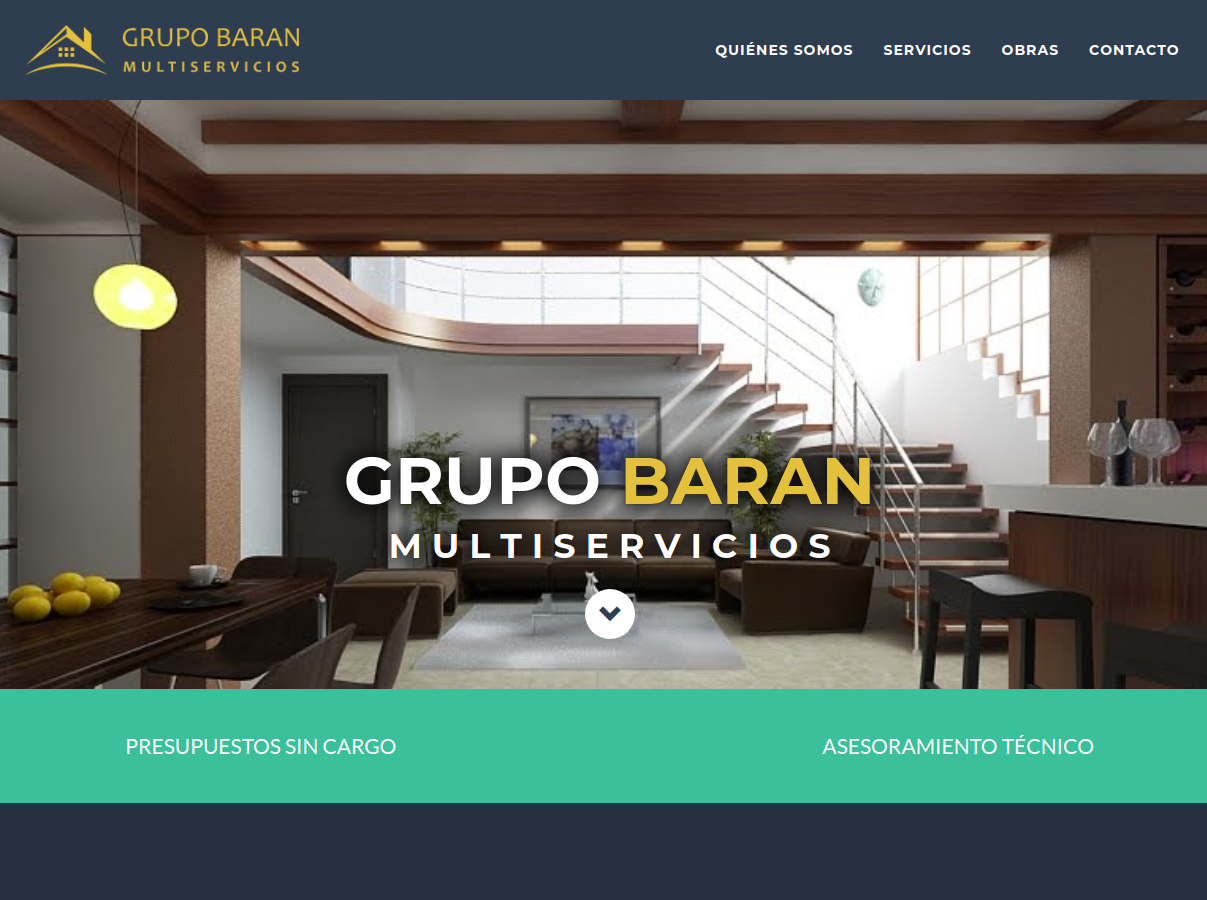
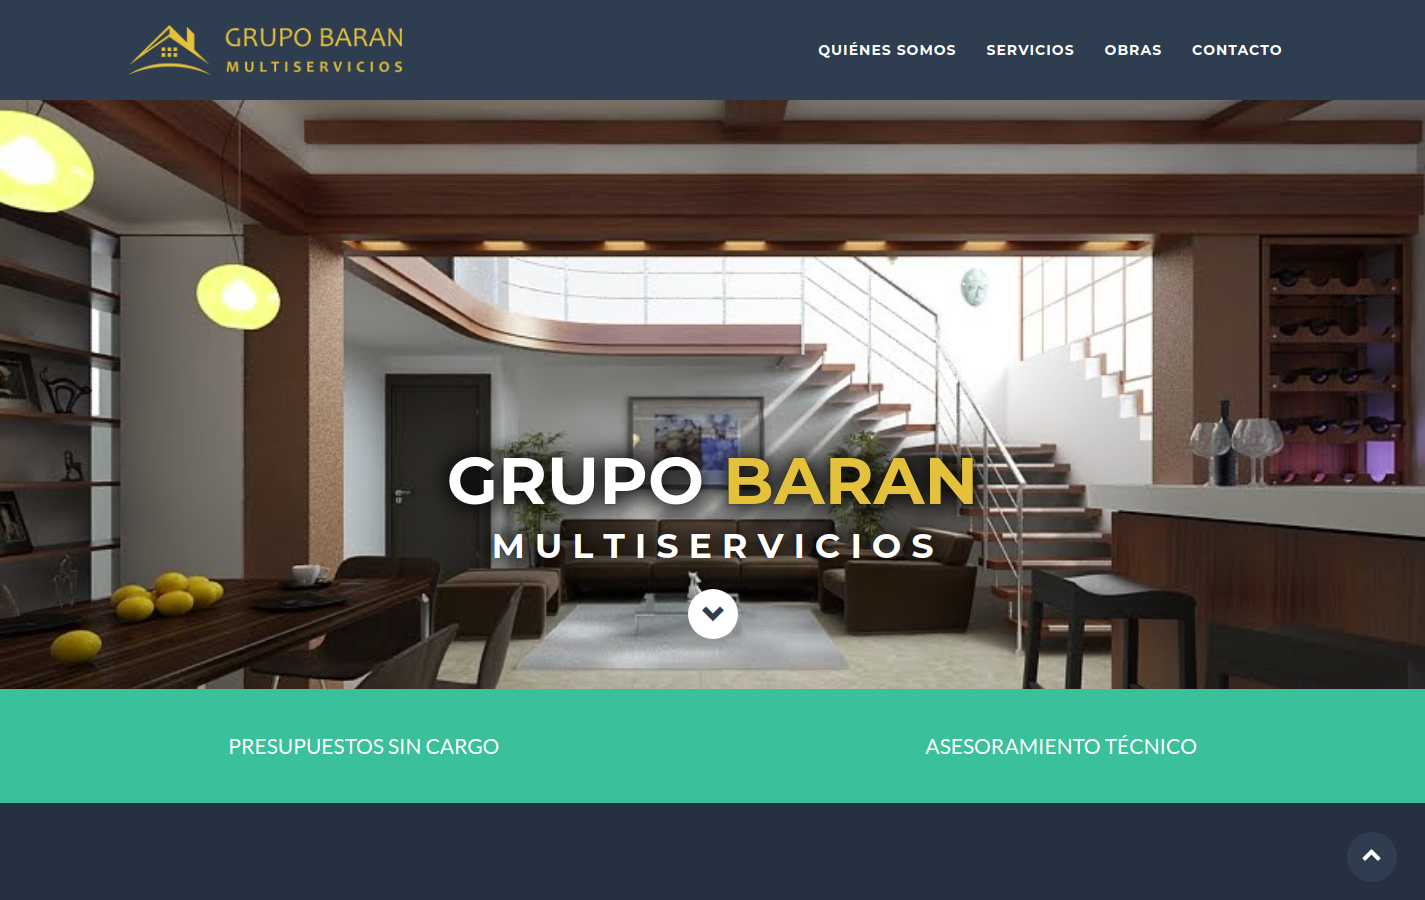
Purge img y agrego no huddle

diff --git a/css/agency.min.css b/css/agency.min.css
@@ -2,4 +2,4 @@
  * Start Bootstrap - Agency v5.2.2 (https://startbootstrap.com/template-overviews/agency)
  * Copyright 2013-2019 Start Bootstrap
  * Licensed under MIT (https://github.com/BlackrockDigital/startbootstrap-agency/blob/master/LICENSE)
- */body{overflow-x:hidden;font-family:'Roboto Slab',-apple-system,BlinkMacSystemFont,'Segoe UI',Roboto,'Helvetica Neue',Arial,sans-serif,'Apple Color Emoji','Segoe UI Emoji','Segoe UI Symbol','Noto Color Emoji'}p{line-height:1.75}a{color:#ed842a}a:hover{color:#fec503}.text-primary{color:#ed842a!important}h1,h2,h3,h4,h5,h6{font-weight:700;font-family:Montserrat,-apple-system,BlinkMacSystemFont,'Segoe UI',Roboto,'Helvetica Neue',Arial,sans-serif,'Apple Color Emoji','Segoe UI Emoji','Segoe UI Symbol','Noto Color Emoji'}.page-section{padding:100px 0}.page-section h2.section-heading{font-size:40px;margin-top:0;margin-bottom:15px}.page-section h3.section-subheading{font-size:16px;font-weight:400;font-style:italic;margin-bottom:75px;text-transform:none;font-family:'Droid Serif',-apple-system,BlinkMacSystemFont,'Segoe UI',Roboto,'Helvetica Neue',Arial,sans-serif,'Apple Color Emoji','Segoe UI Emoji','Segoe UI Symbol','Noto Color Emoji'}@media (min-width:768px){section{padding:150px 0}}::-moz-selection{background:#ed842a;text-shadow:none}::selection{background:#ed842a;text-shadow:none}img::-moz-selection{background:0 0}img::selection{background:0 0}img::-moz-selection{background:0 0}.btn{font-family:Montserrat,-apple-system,BlinkMacSystemFont,'Segoe UI',Roboto,'Helvetica Neue',Arial,sans-serif,'Apple Color Emoji','Segoe UI Emoji','Segoe UI Symbol','Noto Color Emoji';font-weight:700}.btn-xl{font-size:18px;padding:20px 40px}.btn-primary{background-color:#ed842a;border-color:#ed842a}.btn-primary:active,.btn-primary:focus,.btn-primary:hover{background-color:#cd7225!important;border-color:#cd7225!important;color:#fff}.btn-primary:active,.btn-primary:focus{box-shadow:0 0 0 .2rem #cd7225F0!important}#mainNav{background-color:#212529}#mainNav .navbar-toggler{font-size:12px;right:0;padding:13px;text-transform:uppercase;color:#fff;border:0;background-color:#ed842a;font-family:Montserrat,-apple-system,BlinkMacSystemFont,'Segoe UI',Roboto,'Helvetica Neue',Arial,sans-serif,'Apple Color Emoji','Segoe UI Emoji','Segoe UI Symbol','Noto Color Emoji'}#mainNav .navbar-brand{color:#ed842a;font-family:'Kaushan Script',-apple-system,BlinkMacSystemFont,'Segoe UI',Roboto,'Helvetica Neue',Arial,sans-serif,'Apple Color Emoji','Segoe UI Emoji','Segoe UI Symbol','Noto Color Emoji'}#mainNav .navbar-brand.active,#mainNav .navbar-brand:active,#mainNav .navbar-brand:focus,#mainNav .navbar-brand:hover{color:#cd7225}#mainNav .navbar-nav .nav-item .nav-link{font-size:90%;font-weight:400;padding:.75em 0;letter-spacing:1px;color:#fff;font-family:Montserrat,-apple-system,BlinkMacSystemFont,'Segoe UI',Roboto,'Helvetica Neue',Arial,sans-serif,'Apple Color Emoji','Segoe UI Emoji','Segoe UI Symbol','Noto Color Emoji'}#mainNav .navbar-nav .nav-item .nav-link.active,#mainNav .navbar-nav .nav-item .nav-link:hover{color:#ed842a}@media (min-width:992px){#mainNav{padding-top:25px;padding-bottom:25px;transition:padding-top .3s,padding-bottom .3s;border:none;background-color:transparent}#mainNav .navbar-brand{font-size:1.75em;transition:all .3s}#mainNav .navbar-nav .nav-item .nav-link{padding:1.1em 1em!important}#mainNav.navbar-shrink{padding-top:0;padding-bottom:0;background-color:#212529}#mainNav.navbar-shrink .navbar-brand{font-size:1.25em;padding:12px 0}}header.masthead{min-height:100vh;text-align:center;color:#fff}body,html{background-image:url(../img/header-bg2.jpg);background-repeat:no-repeat;background-attachment:fixed;background-position:center center;background-size:cover;box-shadow:#00000099 0 0 0 50vw inset}header.masthead .intro-text{padding-top:150px;padding-bottom:100px;text-shadow:4px 4px 20px rgba(0,0,0,.58)}header.masthead .intro-text .intro-lead-in{font-size:22px;font-style:italic;line-height:22px;margin-bottom:25px;font-family:'Droid Serif',-apple-system,BlinkMacSystemFont,'Segoe UI',Roboto,'Helvetica Neue',Arial,sans-serif,'Apple Color Emoji','Segoe UI Emoji','Segoe UI Symbol','Noto Color Emoji'}header.masthead .intro-text .intro-heading{font-size:50px;font-weight:700;line-height:50px;margin-bottom:25px;font-family:Montserrat,-apple-system,BlinkMacSystemFont,'Segoe UI',Roboto,'Helvetica Neue',Arial,sans-serif,'Apple Color Emoji','Segoe UI Emoji','Segoe UI Symbol','Noto Color Emoji'}@media (min-width:768px){header.masthead .intro-text{padding-top:300px;padding-bottom:200px}header.masthead .intro-text .intro-lead-in{font-size:40px;font-style:italic;line-height:40px;margin-bottom:25px;font-family:'Droid Serif',-apple-system,BlinkMacSystemFont,'Segoe UI',Roboto,'Helvetica Neue',Arial,sans-serif,'Apple Color Emoji','Segoe UI Emoji','Segoe UI Symbol','Noto Color Emoji'}header.masthead .intro-text .intro-heading{font-size:75px;font-weight:700;line-height:75px;margin-bottom:50px;font-family:Montserrat,-apple-system,BlinkMacSystemFont,'Segoe UI',Roboto,'Helvetica Neue',Arial,sans-serif,'Apple Color Emoji','Segoe UI Emoji','Segoe UI Symbol','Noto Color Emoji'}}.service-heading{margin:15px 0;text-transform:none}#portfolio .portfolio-item{right:0;margin:0 0 15px}#portfolio .portfolio-item .portfolio-link{position:relative;display:block;max-width:400px;margin:0 auto;cursor:pointer}#portfolio .portfolio-item .portfolio-link .portfolio-hover{position:absolute;width:100%;height:100%;transition:all ease .5s;opacity:0;background:#cd7225CC}#portfolio .portfolio-item .portfolio-link .portfolio-hover:hover{opacity:1}#portfolio .portfolio-item .portfolio-link .portfolio-hover .portfolio-hover-content{font-size:20px;position:absolute;top:50%;width:100%;height:20px;margin-top:-12px;text-align:center;color:#fff}#portfolio .portfolio-item .portfolio-link .portfolio-hover .portfolio-hover-content i{margin-top:-12px}#portfolio .portfolio-item .portfolio-link .portfolio-hover .portfolio-hover-content h3,#portfolio .portfolio-item .portfolio-link .portfolio-hover .portfolio-hover-content h4{margin:0}#portfolio .portfolio-item .portfolio-caption{max-width:400px;margin:0 auto;padding:25px;text-align:center;background-color:#fff}#portfolio .portfolio-item .portfolio-caption h4{margin:0;text-transform:none}#portfolio .portfolio-item .portfolio-caption p{font-size:16px;font-style:italic;margin:0;font-family:'Droid Serif',-apple-system,BlinkMacSystemFont,'Segoe UI',Roboto,'Helvetica Neue',Arial,sans-serif,'Apple Color Emoji','Segoe UI Emoji','Segoe UI Symbol','Noto Color Emoji'}#portfolio *{z-index:2}@media (min-width:767px){#portfolio .portfolio-item{margin:0 0 30px}}.portfolio-modal .modal-dialog{margin:1rem;max-width:100vw}.portfolio-modal .modal-content{padding:100px 0;text-align:center}.portfolio-modal .modal-content h2{font-size:3em;margin-bottom:15px}.portfolio-modal .modal-content p{margin-bottom:30px}.portfolio-modal .modal-content p.item-intro{font-size:16px;font-style:italic;margin:20px 0 30px;font-family:'Droid Serif',-apple-system,BlinkMacSystemFont,'Segoe UI',Roboto,'Helvetica Neue',Arial,sans-serif,'Apple Color Emoji','Segoe UI Emoji','Segoe UI Symbol','Noto Color Emoji'}.portfolio-modal .modal-content ul.list-inline{margin-top:0;margin-bottom:30px}.portfolio-modal .modal-content img{margin-bottom:30px}.portfolio-modal .modal-content button{cursor:pointer}.portfolio-modal .close-modal{position:absolute;top:25px;right:25px;width:75px;height:75px;cursor:pointer;background-color:transparent}.portfolio-modal .close-modal:hover{opacity:.3}.portfolio-modal .close-modal .lr{z-index:1051;width:1px;height:75px;margin-left:35px;transform:rotate(45deg);background-color:#212529}.portfolio-modal .close-modal .lr .rl{z-index:1052;width:1px;height:75px;transform:rotate(90deg);background-color:#212529}.timeline{position:relative;padding:0;list-style:none}.timeline:before{position:absolute;top:0;bottom:0;left:40px;width:2px;margin-left:-1.5px;content:'';background-color:#e9ecef}.timeline>li{position:relative;min-height:50px;margin-bottom:50px}.timeline>li:after,.timeline>li:before{display:table;content:' '}.timeline>li:after{clear:both}.timeline>li .timeline-panel{position:relative;float:right;width:100%;padding:0 20px 0 100px;text-align:left}.timeline>li .timeline-panel:before{right:auto;left:-15px;border-right-width:15px;border-left-width:0}.timeline>li .timeline-panel:after{right:auto;left:-14px;border-right-width:14px;border-left-width:0}.timeline>li .timeline-image{position:absolute;z-index:100;left:0;width:80px;height:80px;margin-left:0;text-align:center;color:#fff;border:7px solid #e9ecef;border-radius:100%;background-color:#ed842a}.timeline>li .timeline-image h4{font-size:10px;line-height:14px;margin-top:12px}.timeline>li.timeline-inverted>.timeline-panel{float:right;padding:0 20px 0 100px;text-align:left}.timeline>li.timeline-inverted>.timeline-panel:before{right:auto;left:-15px;border-right-width:15px;border-left-width:0}.timeline>li.timeline-inverted>.timeline-panel:after{right:auto;left:-14px;border-right-width:14px;border-left-width:0}.timeline>li:last-child{margin-bottom:0}.timeline .timeline-heading h4{margin-top:0;color:inherit}.timeline .timeline-heading h4.subheading{text-transform:none}.timeline .timeline-body>p,.timeline .timeline-body>ul{margin-bottom:0}@media (min-width:768px){.timeline:before{left:50%}.timeline>li{min-height:100px;margin-bottom:100px}.timeline>li .timeline-panel{float:left;width:41%;padding:0 20px 20px 30px;text-align:right}.timeline>li .timeline-image{left:50%;width:100px;height:100px;margin-left:-50px}.timeline>li .timeline-image h4{font-size:13px;line-height:18px;margin-top:16px}.timeline>li.timeline-inverted>.timeline-panel{float:right;padding:0 30px 20px 20px;text-align:left}}@media (min-width:992px){.timeline>li{min-height:150px}.timeline>li .timeline-panel{padding:0 20px 20px}.timeline>li .timeline-image{width:150px;height:150px;margin-left:-75px}.timeline>li .timeline-image h4{font-size:18px;line-height:26px;margin-top:30px}.timeline>li.timeline-inverted>.timeline-panel{padding:0 20px 20px}}@media (min-width:1200px){.timeline>li{min-height:170px}.timeline>li .timeline-panel{padding:0 20px 20px 100px}.timeline>li .timeline-image{width:170px;height:170px;margin-left:-85px}.timeline>li .timeline-image h4{margin-top:40px}.timeline>li.timeline-inverted>.timeline-panel{padding:0 100px 20px 20px}}.team-member{margin-bottom:50px;text-align:center}.team-member img{width:225px;height:225px;border:7px solid rgba(0,0,0,.1)}.team-member h4{margin-top:25px;margin-bottom:0;text-transform:none}.team-member p{margin-top:0}section#contact{background-color:#212529;background-image:url(../img/contacto-bg.jpg);background-repeat:no-repeat;background-position:center left;background-size:cover;box-shadow:#00000077 0 0 0 50vw inset}section#contact .section-heading{color:#fff}section#contact .form-group{margin-bottom:25px}section#contact .form-group input,section#contact .form-group textarea{padding:20px}section#contact .form-group input.form-control{height:auto}section#contact .form-group textarea.form-control{height:248px}section#contact .form-control:focus{border-color:#ed842a;box-shadow:none}section#contact ::-webkit-input-placeholder{font-weight:700;color:#ced4da;font-family:Montserrat,-apple-system,BlinkMacSystemFont,'Segoe UI',Roboto,'Helvetica Neue',Arial,sans-serif,'Apple Color Emoji','Segoe UI Emoji','Segoe UI Symbol','Noto Color Emoji'}section#contact :-moz-placeholder{font-weight:700;color:#ced4da;font-family:Montserrat,-apple-system,BlinkMacSystemFont,'Segoe UI',Roboto,'Helvetica Neue',Arial,sans-serif,'Apple Color Emoji','Segoe UI Emoji','Segoe UI Symbol','Noto Color Emoji'}section#contact ::-moz-placeholder{font-weight:700;color:#ced4da;font-family:Montserrat,-apple-system,BlinkMacSystemFont,'Segoe UI',Roboto,'Helvetica Neue',Arial,sans-serif,'Apple Color Emoji','Segoe UI Emoji','Segoe UI Symbol','Noto Color Emoji'}section#contact :-ms-input-placeholder{font-weight:700;color:#ced4da;font-family:Montserrat,-apple-system,BlinkMacSystemFont,'Segoe UI',Roboto,'Helvetica Neue',Arial,sans-serif,'Apple Color Emoji','Segoe UI Emoji','Segoe UI Symbol','Noto Color Emoji'}.footer{padding:25px 0;text-align:center}.footer span.copyright{font-size:90%;line-height:40px;text-transform:none;font-family:Montserrat,-apple-system,BlinkMacSystemFont,'Segoe UI',Roboto,'Helvetica Neue',Arial,sans-serif,'Apple Color Emoji','Segoe UI Emoji','Segoe UI Symbol','Noto Color Emoji'}.footer ul.quicklinks{font-size:90%;line-height:40px;margin-bottom:0;text-transform:none;font-family:Montserrat,-apple-system,BlinkMacSystemFont,'Segoe UI',Roboto,'Helvetica Neue',Arial,sans-serif,'Apple Color Emoji','Segoe UI Emoji','Segoe UI Symbol','Noto Color Emoji'}ul.social-buttons{margin-bottom:0}ul.social-buttons li a{font-size:20px;line-height:50px;display:block;width:50px;height:50px;transition:all .3s;color:#fff;border-radius:100%;outline:0;background-color:#212529}ul.social-buttons li a:active,ul.social-buttons li a:focus,ul.social-buttons li a:hover{background-color:#ed842a}
+ */body{overflow-x:hidden;font-family:'Roboto Slab',-apple-system,BlinkMacSystemFont,'Segoe UI',Roboto,'Helvetica Neue',Arial,sans-serif,'Apple Color Emoji','Segoe UI Emoji','Segoe UI Symbol','Noto Color Emoji'}body,html{background-image:url(../img/header-bg2.jpg);background-repeat:no-repeat;background-attachment:fixed;background-position:center center;background-size:cover;box-shadow:#00000099 0 0 0 50vw inset}p{line-height:1.75}a{color:#ed842a}a:hover{color:#fec503}.text-primary{color:#ed842a!important}h1,h2,h3,h4,h5,h6{font-weight:700;font-family:Montserrat,-apple-system,BlinkMacSystemFont,'Segoe UI',Roboto,'Helvetica Neue',Arial,sans-serif,'Apple Color Emoji','Segoe UI Emoji','Segoe UI Symbol','Noto Color Emoji'}.page-section{padding:100px 0}.page-section h2.section-heading{font-size:40px;margin-top:0;margin-bottom:15px}.page-section h3.section-subheading{font-size:1.25em;font-weight:400;font-style:italic;margin-bottom:75px;text-transform:none;font-family:'Droid Serif',-apple-system,BlinkMacSystemFont,'Segoe UI',Roboto,'Helvetica Neue',Arial,sans-serif,'Apple Color Emoji','Segoe UI Emoji','Segoe UI Symbol','Noto Color Emoji'}@media (min-width:768px){section{padding:150px 0}}::-moz-selection,::selection{background:#ed842a;text-shadow:none}img::-moz-selection,img::selection{background:0 0}.btn{font-family:Montserrat,-apple-system,BlinkMacSystemFont,'Segoe UI',Roboto,'Helvetica Neue',Arial,sans-serif,'Apple Color Emoji','Segoe UI Emoji','Segoe UI Symbol','Noto Color Emoji';font-weight:700}.btn-xl{font-size:18px;padding:20px 40px}.btn-primary{background-color:#ed842a;border-color:#ed842a}.btn-primary:active,.btn-primary:focus,.btn-primary:hover{background-color:#cd7225!important;border-color:#cd7225!important;color:#fff}.btn-primary:active,.btn-primary:focus{box-shadow:0 0 0 .2rem #cd7225F0!important}#mainNav{background-color:#212529}#mainNav .navbar-toggler{font-size:12px;right:0;padding:13px;text-transform:uppercase;color:#fff;border:0;background-color:#ed842a;font-family:Montserrat,-apple-system,BlinkMacSystemFont,'Segoe UI',Roboto,'Helvetica Neue',Arial,sans-serif,'Apple Color Emoji','Segoe UI Emoji','Segoe UI Symbol','Noto Color Emoji'}#mainNav .navbar-brand{color:#ed842a;font-family:'Lobster two',-apple-system,BlinkMacSystemFont,'Segoe UI',Roboto,'Helvetica Neue',Arial,sans-serif,'Apple Color Emoji','Segoe UI Emoji','Segoe UI Symbol','Noto Color Emoji';font-size:1.75rem}#mainNav .navbar-brand.active,#mainNav .navbar-brand:active,#mainNav .navbar-brand:focus,#mainNav .navbar-brand:hover{color:#cd7225}#mainNav .navbar-nav .nav-item .nav-link{font-size:90%;font-weight:400;padding:.75em 0;letter-spacing:1px;color:#fff;font-family:Montserrat,-apple-system,BlinkMacSystemFont,'Segoe UI',Roboto,'Helvetica Neue',Arial,sans-serif,'Apple Color Emoji','Segoe UI Emoji','Segoe UI Symbol','Noto Color Emoji'}#mainNav .navbar-nav .nav-item .nav-link.active,#mainNav .navbar-nav .nav-item .nav-link:hover{color:#ed842a}@media (min-width:992px){#mainNav{padding-top:25px;padding-bottom:25px;transition:padding-top .3s,padding-bottom .3s;border:none;background-color:transparent}#mainNav .navbar-brand{font-size:2.25em;transition:all .3s}#mainNav .navbar-nav .nav-item .nav-link{padding:1.1em 1em!important}#mainNav.navbar-shrink{padding-top:0;padding-bottom:0;background-color:#212529}#mainNav.navbar-shrink .navbar-brand{font-size:1.75em;padding:12px 0}}header.masthead{min-height:100vh;text-align:center;color:#fff}header.masthead .intro-text{padding-top:150px;padding-bottom:100px;text-shadow:4px 4px 20px rgba(0,0,0,.58)}header.masthead .intro-text .intro-lead-in{font-size:22px;font-style:italic;line-height:22px;margin-bottom:25px;font-family:'Droid Serif',-apple-system,BlinkMacSystemFont,'Segoe UI',Roboto,'Helvetica Neue',Arial,sans-serif,'Apple Color Emoji','Segoe UI Emoji','Segoe UI Symbol','Noto Color Emoji'}header.masthead .intro-text .intro-heading{font-size:50px;font-weight:700;line-height:50px;margin-bottom:25px;font-family:Montserrat,-apple-system,BlinkMacSystemFont,'Segoe UI',Roboto,'Helvetica Neue',Arial,sans-serif,'Apple Color Emoji','Segoe UI Emoji','Segoe UI Symbol','Noto Color Emoji'}@media (min-width:768px){header.masthead .intro-text{padding-top:300px;padding-bottom:200px}header.masthead .intro-text .intro-lead-in{font-size:40px;font-style:italic;line-height:40px;margin-bottom:25px;font-family:'Droid Serif',-apple-system,BlinkMacSystemFont,'Segoe UI',Roboto,'Helvetica Neue',Arial,sans-serif,'Apple Color Emoji','Segoe UI Emoji','Segoe UI Symbol','Noto Color Emoji'}header.masthead .intro-text .intro-heading{font-size:75px;font-weight:700;line-height:75px;margin-bottom:50px;font-family:Montserrat,-apple-system,BlinkMacSystemFont,'Segoe UI',Roboto,'Helvetica Neue',Arial,sans-serif,'Apple Color Emoji','Segoe UI Emoji','Segoe UI Symbol','Noto Color Emoji'}}.service-heading{margin:15px 0;text-transform:none}#portfolio .portfolio-item{right:0;margin:0 0 15px}#portfolio .portfolio-item .portfolio-link{position:relative;display:block;max-width:400px;margin:0 auto;cursor:pointer}#portfolio .portfolio-item .portfolio-link .portfolio-hover{position:absolute;width:100%;height:100%;transition:all ease .5s;opacity:0;background:#cd7225CC}#portfolio .portfolio-item .portfolio-link .portfolio-hover:hover{opacity:1}#portfolio .portfolio-item .portfolio-link .portfolio-hover .portfolio-hover-content{font-size:20px;position:absolute;top:50%;width:100%;height:20px;margin-top:-12px;text-align:center;color:#fff}#portfolio .portfolio-item .portfolio-link .portfolio-hover .portfolio-hover-content i{margin-top:-12px}#portfolio .portfolio-item .portfolio-link .portfolio-hover .portfolio-hover-content h3,#portfolio .portfolio-item .portfolio-link .portfolio-hover .portfolio-hover-content h4{margin:0}#portfolio .portfolio-item .portfolio-caption{max-width:400px;margin:0 auto;padding:25px;text-align:center;background-color:#fff}#portfolio .portfolio-item .portfolio-caption h4{margin:0;text-transform:none}#portfolio .portfolio-item .portfolio-caption p{font-size:16px;font-style:italic;margin:0;font-family:'Droid Serif',-apple-system,BlinkMacSystemFont,'Segoe UI',Roboto,'Helvetica Neue',Arial,sans-serif,'Apple Color Emoji','Segoe UI Emoji','Segoe UI Symbol','Noto Color Emoji'}#portfolio *{z-index:2}@media (min-width:767px){#portfolio .portfolio-item{margin:0 0 30px}}section#contact{background-color:#212529;background-image:url(../img/contacto-bg.jpg);background-repeat:no-repeat;background-position:center left;background-size:cover;box-shadow:#00000077 0 0 0 50vw inset}section#contact .section-heading{color:#fff}section#contact .form-group{margin-bottom:25px}section#contact .form-group input,section#contact .form-group textarea{padding:20px}section#contact .form-group input.form-control{height:auto}section#contact .form-group textarea.form-control{height:248px}section#contact .form-control:focus{border-color:#ed842a;box-shadow:none}section#contact :-moz-placeholder,section#contact :-ms-input-placeholder,section#contact ::-moz-placeholder,section#contact ::-webkit-input-placeholder,section#contact ::placeholder{font-weight:700;color:#ced4da;font-family:Montserrat,-apple-system,BlinkMacSystemFont,'Segoe UI',Roboto,'Helvetica Neue',Arial,sans-serif,'Apple Color Emoji','Segoe UI Emoji','Segoe UI Symbol','Noto Color Emoji'}.footer{padding:25px 0;text-align:center}.footer span.copyright{font-size:1.5em;line-height:40px;text-transform:none;font-family:'Lobster two',-apple-system,BlinkMacSystemFont,'Segoe UI',Roboto,'Helvetica Neue',Arial,sans-serif,'Apple Color Emoji','Segoe UI Emoji','Segoe UI Symbol','Noto Color Emoji';color:#ed842a}.footer ul.quicklinks{font-size:90%;line-height:40px;margin-bottom:0;text-transform:none;font-family:Montserrat,-apple-system,BlinkMacSystemFont,'Segoe UI',Roboto,'Helvetica Neue',Arial,sans-serif,'Apple Color Emoji','Segoe UI Emoji','Segoe UI Symbol','Noto Color Emoji'}ul.social-buttons{margin-bottom:0}ul.social-buttons li a{font-size:20px;line-height:50px;display:block;width:50px;height:50px;transition:all .3s;color:#fff;border-radius:100%;outline:0;background-color:#212529}ul.social-buttons li a:active,ul.social-buttons li a:focus,ul.social-buttons li a:hover{background-color:#ed842a}

diff --git a/index.html b/index.html
@@ -132,6 +132,19 @@
 			</div>
 			<div class="row">
 				<div class="col-md-4 col-sm-6 portfolio-item">
+					<a class="portfolio-link" target="_blank" href="https://nohuddle.com.ar/">
+						<div class="portfolio-hover">
+							<div class="portfolio-hover-content">
+								<i class="fas fa-plus fa-3x"></i>
+							</div>
+						</div>
+						<img class="img-fluid" src="img/portfolio/nohuddle.png" alt="">
+					</a>
+					<div class="portfolio-caption">
+						<h4>No Huddle</h4>
+					</div>
+				</div>
+				<div class="col-md-4 col-sm-6 portfolio-item">
 					<a class="portfolio-link" target="_blank" href="portfolio/baran/">
 						<div class="portfolio-hover">
 							<div class="portfolio-hover-content">
@@ -155,19 +168,6 @@
 					</a>
 					<div class="portfolio-caption">
 						<h4>MS-Brokers</h4>
-					</div>
-				</div>
-				<div class="col-md-4 col-sm-6 portfolio-item">
-					<a class="portfolio-link" target="_blank" href="https://guadalupequintacanning.com.ar/">
-						<div class="portfolio-hover">
-							<div class="portfolio-hover-content">
-								<i class="fas fa-plus fa-3x"></i>
-							</div>
-						</div>
-						<img class="img-fluid" src="img/portfolio/guadalupe.png" alt="">
-					</a>
-					<div class="portfolio-caption">
-						<h4>Quinta Guadalupe</h4>
 					</div>
 				</div>
 			</div>
